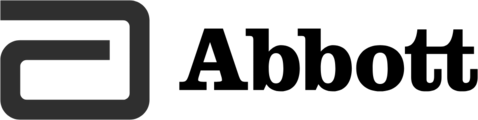
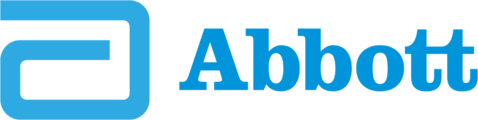
Update copy, imagery, and layout across site; expand team section
- Rework hero, stats, and CTA copy on the homepage (citations, stat
  corrections, wording fixes)
- Replace technology-page diagrams with clean crops sourced from the
  latest investor deck; reorder PCR/ELISA comparison bars
- Add Professor Yoon and John Perchorowicz as full team member cards
  with real headshots; trim advisory-team blurb accordingly
- Recolor all credential/affiliation logos with verified brand colors
  and add Calgene + Triage Masters; tighten section spacing around
  that band
- Contact page: add company field, fix aside icon, update copy
- Add CLAUDE.md documenting the site's structure, deploy path, and
  outstanding Formspree setup

diff --git a/team.html b/team.html
@@ -4,7 +4,7 @@
   <meta charset="UTF-8" />
   <meta name="viewport" content="width=device-width, initial-scale=1.0" />
   <title>Team — RapidBio Systems</title>
-  <meta name="description" content="RapidBio's team brings deep experience across medical and analytical devices, food science and entrepreneurship — backed by patented technology and an exclusive University of Arizona license." />
+  <meta name="description" content="RapidBio's team brings deep experience across medical and analytical devices, food science, data management and entrepreneurship — backed by patented technology and an exclusive University of Arizona license." />
   <link rel="icon" type="image/png" sizes="64x64" href="assets/favicon-64.png" />
   <link rel="apple-touch-icon" href="assets/apple-touch-icon.png" />
   <link rel="stylesheet" href="css/styles.css" />
@@ -39,14 +39,14 @@
       <div class="container">
         <div class="section-head narrow">
           <span class="eyebrow">Team</span>
-          <h2 class="mt-0">Deep experience across medical and analytical devices, food science, and entrepreneurship</h2>
+          <h2 class="mt-0">Deep experience across medical and analytical devices, food science, data management, and entrepreneurship</h2>
           <p class="lead">A leadership and advisory team that has built scientific products at scale, founded and exited companies, and exclusively licensed the underlying technology.</p>
         </div>
       </div>
     </section>
 
     <!-- ===== LEADERSHIP ===== -->
-    <section class="section">
+    <section class="section section--tight-bottom">
       <div class="container">
         <div class="team-grid">
           <div class="member">
@@ -67,34 +67,48 @@
             <div class="role">Board &amp; Investor</div>
             <p>Founder of Empire West and a serial entrepreneur across multiple ventures.</p>
           </div>
+          <div class="member">
+            <div class="member__photo"><img src="assets/team-yoon.png" alt="Portrait of Professor Yoon" width="500" height="500" /></div>
+            <h3>Professor Yoon, PhD</h3>
+            <div class="role">Inventor</div>
+            <p>Professor of Agricultural &amp; Biosystems Engineering, University of Arizona.</p>
+          </div>
+          <div class="member">
+            <div class="member__photo"><img src="assets/team-perchorowicz.png" alt="Portrait of John Perchorowicz" width="500" height="500" /></div>
+            <h3>John Perchorowicz, PhD</h3>
+            <div class="role">Technical Consultant &amp; Investor</div>
+            <p>Past President, Triage Masters; Managing Principal Scientist, Calgene.</p>
+          </div>
         </div>
 
         <div class="advisory">
           <h3>Advisory team</h3>
-          <p><b>Professor Yoon, PhD</b> — Inventor · <b>John Perchorowicz, PhD</b> — Technical Consultant &amp; Investor · <b>Greg Smith, MS</b> — Senior EE · <b>Tim Reckart, JD</b> — Corporate Attorney · <b>Quan Nguyen, PhD, JD</b> — Intellectual Property</p>
+          <p><b>Greg Smith, MS</b> — Senior EE · <b>Tim Reckart, JD</b> — Corporate Attorney · <b>Quan Nguyen, PhD, JD</b> — Intellectual Property</p>
         </div>
       </div>
     </section>
 
     <!-- ===== CREDENTIAL LOGOS ===== -->
-    <section class="section section--tint">
+    <section class="section section--tint section--tight">
       <div class="container">
         <div class="partners">
           <p class="partners__label">Experience &amp; affiliations across the team</p>
           <div class="partners__row">
             <img src="assets/partner-jnj.png" alt="Johnson &amp; Johnson" />
             <img src="assets/partner-biorad.png" alt="Bio-Rad" />
+            <img src="assets/partner-uarizona.png" alt="The University of Arizona" />
             <img src="assets/partner-abbott.png" alt="Abbott" />
             <img src="assets/partner-sunquest.png" alt="Sunquest" />
-            <img src="assets/partner-empirewest.png" alt="Empire West Construction" />
-            <img src="assets/partner-uarizona.png" alt="The University of Arizona" />
+            <img src="assets/partner-empirewest.png" alt="Empire West Companies" />
+            <img class="logo-compact" src="assets/partner-calgene.png" alt="Calgene" />
+            <img class="logo-compact" src="assets/partner-triagemasters.png" alt="Triage Masters" />
           </div>
         </div>
       </div>
     </section>
 
     <!-- ===== CREDIBILITY / CTA ===== -->
-    <section class="section">
+    <section class="section section--tight-top">
       <div class="container">
         <div class="grid-2" style="align-items:stretch; margin-bottom:44px">
           <div class="card">
@@ -102,20 +116,20 @@
               <svg width="24" height="24" viewBox="0 0 24 24" fill="none" stroke="currentColor" stroke-width="2" stroke-linecap="round" stroke-linejoin="round"><path d="M12 2l7 3v6c0 4.5-3 8-7 11-4-3-7-6.5-7-11V5z"/><path d="M9 12l2 2 4-4"/></svg>
             </div>
             <h3>Protected &amp; validated</h3>
-            <p>Two issued US patents and an exclusive license from the University of Arizona. Proof of principle and proof of technology complete, with E.&nbsp;coli detection demonstrated at ~10&nbsp;CFU/mL.</p>
+            <p>Two issued US patents and an exclusive license from the University of Arizona. Proof of principle and proof of technology complete with E.&nbsp;coli detection—demonstrated at 10&nbsp;CFU/mL.</p>
           </div>
           <div class="card">
             <div class="icon-badge" aria-hidden="true">
               <svg width="24" height="24" viewBox="0 0 24 24" fill="none" stroke="currentColor" stroke-width="2" stroke-linecap="round" stroke-linejoin="round"><path d="M20 7h-9M14 17H5"/><circle cx="7" cy="7" r="3"/><circle cx="17" cy="17" r="3"/></svg>
             </div>
             <h3>Backed &amp; recognized</h3>
-            <p>Prior investment from DesertTech, the University of Arizona and the Kauffman Foundation, with media coverage in the Wall Street Journal, Fast Company and FoodBytes.</p>
+            <p>Prior investment from DesertTech, Board of Directors, the University of Arizona and the Kauffman Foundation, with media coverage in the Wall Street Journal, Fast Company and FoodBytes.</p>
           </div>
         </div>
 
         <div class="cta-band">
           <h2>Understand the Market and RapidBio Systems' Plan</h2>
-          <p>Request the market overview deck for more details on the market and our approach and plan.</p>
+          <p>Request the market overview deck for more details on the market and our approach.</p>
           <a class="btn btn--onDark btn--lg" href="contact.html">Request the Market Overview Deck <span class="arrow" aria-hidden="true">→</span></a>
         </div>
       </div>
@@ -131,7 +145,7 @@
             <img src="assets/logo-mark.png" alt="" />
             <div class="footer__wordmark">RapidBio Systems, Inc.<span>Fast Pathogen Detection Made Easy™</span></div>
           </div>
-          <p class="footer__tag">Transforming food safety testing, one 10-minute test at a time.</p>
+          <p class="footer__tag">Transforming food safety testing one 10-minute test at a time.</p>
         </div>
         <div class="footer__col">
           <h4>Explore</h4>

diff --git a/index.html b/index.html
@@ -39,13 +39,13 @@
       <div class="container hero__grid">
         <div class="hero__copy">
           <span class="eyebrow">Fast Pathogen Detection Made Easy™</span>
-          <h1>10-minute bacterial pathogen detection for food safety</h1>
+          <h1>~10-minute bacterial pathogen detection for food safety fast screening testing</h1>
           <p class="hero__sub">A portable, handheld system that delivers PCR-like accuracy in about ten minutes — no lab, no amplification step, no specialized technician.</p>
           <div class="hero__actions">
             <a class="btn btn--primary btn--lg" href="contact.html">Request the Investor Deck <span class="arrow" aria-hidden="true">→</span></a>
             <a class="btn btn--ghost btn--lg" href="technology.html">See the technology</a>
           </div>
-          <p class="hero__trust">Detecting <b>E.&nbsp;coli</b>, <b>Salmonella</b>, <b>Listeria</b> &amp; <b>Campylobacter</b> — <b>~80%</b> of a <b>$12.7B</b> global market that's <b>growing 10% annually</b>.</p>
+          <p class="hero__trust">Detecting <b>E.&nbsp;coli</b>, <b>Salmonella</b>, <b>Listeria</b> &amp; <b>Campylobacter</b> — <b>~70%</b> of a <b>$12.7B</b> global market that's <b>growing 10% annually</b>.</p>
         </div>
         <div class="hero__media">
           <img src="assets/product-hero.png" alt="Two RapidBio handheld pathogen detection devices showing test results on screen" width="1000" />
@@ -59,14 +59,14 @@
         <div class="section-head">
           <span class="eyebrow">The problem</span>
           <h2>Slow testing costs the food industry $100M+ annually <span class="mdash">—</span> and puts consumers at risk</h2>
-          <p class="lead">Bacterial contamination sickens an estimated 600&nbsp;million people a year and drives costly recalls. Today's screening takes hours and confirmation takes days, so product sits in inventory or ships untested.</p>
+          <p class="lead">Bacterial contamination sickens an estimated 10&nbsp;million people in the US a year and drives costly recalls. Today's screening takes hours and confirmation takes days, so product sits in inventory or ships untested.</p>
         </div>
 
         <div class="stats">
           <div class="stat stat--gold">
-            <div class="stat__num">600M</div>
-            <div class="stat__label">People sickened annually</div>
-            <p class="stat__desc">E.&nbsp;coli, Salmonella, Listeria and Campylobacter cause illness worldwide and trigger recalls.</p>
+            <div class="stat__num">10M</div>
+            <div class="stat__label">People sickened annually in the US</div>
+            <p class="stat__desc">E.&nbsp;coli, Salmonella, Listeria and Campylobacter cause 1,000 deaths annually (CDC, 2025).</p>
           </div>
           <div class="stat stat--gold">
             <div class="stat__num">Hours &ndash; Days</div>
@@ -102,7 +102,7 @@
             <span class="spec-bar__icon" aria-hidden="true">
               <svg width="22" height="22" viewBox="0 0 24 24" fill="none" stroke="currentColor" stroke-width="2.2" stroke-linecap="round" stroke-linejoin="round"><circle cx="12" cy="12" r="9"/><path d="M12 7v5l3 2"/></svg>
             </span>
-            <span><b>~10 minutes to result</b><span class="d">Fast screening in minutes, not hours or days.</span></span>
+            <span><b>~10 minutes to result</b><span class="d"><strong>Fast screening</strong> in minutes, not hours or days.</span></span>
           </div>
           <div class="spec-bar__item">
             <span class="spec-bar__icon" aria-hidden="true">
@@ -155,7 +155,7 @@
         <div class="section-head">
           <span class="eyebrow">Beyond the device</span>
           <h2>Every test builds a real-time, food-safety data layer</h2>
-          <p class="lead" style="color:#aeb8b2">Each test generates structured, timestamped, geotagged data — creating a pathogen dataset that doesn't exist today and shifting food safety from reactive to predictive. The long-term moat is the data rather than the device.</p>
+          <p class="lead" style="color:#aeb8b2">Each test generates structured, timestamped, geotagged data — creating a pathogen dataset that doesn't exist today, which shifts food safety from reactive to predictive. The long-term moat is the data rather than the device.</p>
         </div>
         <div class="grid-3">
           <div class="card">
@@ -170,7 +170,7 @@
               <svg width="24" height="24" viewBox="0 0 24 24" fill="none" stroke="currentColor" stroke-width="2" stroke-linecap="round" stroke-linejoin="round"><path d="M3 3v18h18"/><path d="M7 15l4-4 3 3 5-6"/></svg>
             </div>
             <h3>Predictive modeling</h3>
-            <p>Correlating results with supplier, line, temperature and season enables preventive, not reactive, food safety.</p>
+            <p>Correlating results with supplier, line, temperature and season enables preventive not reactive food safety.</p>
           </div>
           <div class="card">
             <div class="icon-badge" aria-hidden="true">
@@ -188,7 +188,7 @@
       <div class="container">
         <div class="cta-band">
           <h2>Ready to learn more?</h2>
-          <p>We're raising capital to complete development, achieve AOAC certification, and bring the first rapid pathogen test to market. Request the Investor Deck or start a conversation.</p>
+          <p>We're raising capital to complete development, achieve AOAC certification and bring the first rapid pathogen test to market. Request the Investor Deck or start a conversation.</p>
           <a class="btn btn--onDark btn--lg" href="contact.html">Request the Investor Deck <span class="arrow" aria-hidden="true">→</span></a>
         </div>
       </div>
@@ -204,7 +204,7 @@
             <img src="assets/logo-mark.png" alt="" />
             <div class="footer__wordmark">RapidBio Systems, Inc.<span>Fast Pathogen Detection Made Easy™</span></div>
           </div>
-          <p class="footer__tag">Transforming food safety testing, one 10-minute test at a time.</p>
+          <p class="footer__tag">Transforming food safety testing one 10-minute test at a time.</p>
         </div>
         <div class="footer__col">
           <h4>Explore</h4>

diff --git a/technology.html b/technology.html
@@ -93,7 +93,7 @@
         <div class="section-head" style="max-width:760px">
           <span class="eyebrow">The science</span>
           <h2 class="mt-0">How Mie-scattering detection works</h2>
-          <p class="lead">Antibody-coated microspheres bind to target bacteria in a micro-fluidic cartridge split into control and test channels. A laser passes through the sample, and the pattern of scattered light reveals whether pathogens are present — read directly, with no amplification.</p>
+          <p class="lead">Antibody-coated microspheres bind to target bacteria in a micro-fluidic cartridge split into control and test channels. A laser passes through the sample and the pattern of scattered light reveals whether pathogens are present — read directly, with no amplification.</p>
         </div>
 
         <div class="diagram-panel">
@@ -102,7 +102,7 @@
         <p class="diagram-hint">Swipe to see the full diagram →</p>
 
         <div class="photo-panel photo-panel--center">
-          <img src="assets/cartridge-detail.jpg" alt="Close-up of the RapidBio micro-fluidic test cartridge, with the sample port at the center feeding dyed fluid into the control-side and test-side channels" width="1200" height="636" loading="lazy" />
+          <img src="assets/cartridge-detail.jpg" alt="Close-up of the RapidBio micro-fluidic test cartridge, with the sample port at the center feeding dyed fluid into the control-side and test-side channels" width="1400" height="401" loading="lazy" />
         </div>
 
         <div class="grid-3" style="margin-top:40px">
@@ -131,7 +131,7 @@
         <div class="section-head">
           <span class="eyebrow">Competitive edge</span>
           <h2>Faster and lower cost <span class="mdash">—</span> without the amplification bottleneck</h2>
-          <p class="lead">Every competing method requires a sample amplification step that adds hours or days. RapidBio doesn't, delivering a screening result in about ten minutes.</p>
+          <p class="lead">Every competing method requires a sample amplification step that adds hours or days. RapidBio Systems doesn't, delivering a screening result in about ten minutes.</p>
         </div>
 
         <div class="compare">
@@ -146,16 +146,16 @@
             <div class="compare__track"><span class="compare__bar compare__bar--slow" style="width:40%"></span></div>
           </div>
           <div class="compare__row">
+            <div class="compare__thumb"><img src="assets/m-pcr.jpg" alt="Technician operating a benchtop PCR analyzer in a lab" width="160" height="160" loading="lazy" /></div>
+            <div class="compare__label">PCR / rtPCR<small>Hours + amplification</small></div>
+            <div class="compare__track"><span class="compare__bar compare__bar--slow" style="width:45%"></span></div>
+          </div>
+          <div class="compare__row">
             <div class="compare__thumb compare__thumb--icon" aria-hidden="true">
               <svg width="30" height="30" viewBox="0 0 24 24" fill="none" stroke="currentColor" stroke-width="1.6"><rect x="2.5" y="4.5" width="19" height="15" rx="2"/><circle cx="7" cy="9" r="1.5"/><circle cx="12" cy="9" r="1.5"/><circle cx="17" cy="9" r="1.5"/><circle cx="7" cy="15" r="1.5"/><circle cx="12" cy="15" r="1.5"/><circle cx="17" cy="15" r="1.5"/></svg>
             </div>
             <div class="compare__label">ELISA<small>Hours + amplification</small></div>
             <div class="compare__track"><span class="compare__bar compare__bar--slow" style="width:52%"></span></div>
-          </div>
-          <div class="compare__row">
-            <div class="compare__thumb"><img src="assets/m-pcr.jpg" alt="Technician operating a benchtop PCR analyzer in a lab" width="160" height="160" loading="lazy" /></div>
-            <div class="compare__label">PCR / rtPCR<small>Hours + amplification</small></div>
-            <div class="compare__track"><span class="compare__bar compare__bar--slow" style="width:70%"></span></div>
           </div>
           <div class="compare__row">
             <div class="compare__thumb"><img src="assets/m-agar.jpg" alt="Bacterial colonies growing on an agar culture plate" width="160" height="160" loading="lazy" /></div>
@@ -192,7 +192,7 @@
             <img src="assets/logo-mark.png" alt="" />
             <div class="footer__wordmark">RapidBio Systems, Inc.<span>Fast Pathogen Detection Made Easy™</span></div>
           </div>
-          <p class="footer__tag">Transforming food safety testing, one 10-minute test at a time.</p>
+          <p class="footer__tag">Transforming food safety testing one 10-minute test at a time.</p>
         </div>
         <div class="footer__col">
           <h4>Explore</h4>

diff --git a/contact.html b/contact.html
@@ -39,7 +39,7 @@
         <div class="section-head narrow">
           <span class="eyebrow">Contact</span>
           <h2 class="mt-0">Request the deck or start a conversation</h2>
-          <p class="lead">Tell us a little about your interest and we'll follow up with the investor deck and next steps.</p>
+          <p class="lead">Tell us a little about your interest and we'll follow up with the investor deck or technology market overview and next steps.</p>
         </div>
       </div>
     </section>
@@ -60,6 +60,10 @@
             <div class="field">
               <label for="email">Email</label>
               <input type="email" id="email" name="email" autocomplete="email" required />
+            </div>
+            <div class="field">
+              <label for="company">Company</label>
+              <input type="text" id="company" name="company" autocomplete="organization" />
             </div>
             <div class="field">
               <label for="message">Message</label>
@@ -85,7 +89,7 @@
               </li>
               <li>
                 <span class="icon-badge" aria-hidden="true">
-                  <svg width="22" height="22" viewBox="0 0 24 24" fill="none" stroke="currentColor" stroke-width="2" stroke-linecap="round" stroke-linejoin="round"><circle cx="12" cy="12" r="9"/><path d="M12 7v5l3 2"/></svg>
+                  <svg width="22" height="22" viewBox="0 0 24 24" fill="none" stroke="currentColor" stroke-width="2" stroke-linecap="round" stroke-linejoin="round"><circle cx="12" cy="8" r="4"/><path d="M4 21c0-4 3.6-6 8-6s8 2 8 6"/></svg>
                 </span>
                 <span><b>John Erickson</b><span>President &amp; CEO, RapidBio Systems, Inc.</span></span>
               </li>
@@ -109,7 +113,7 @@
             <img src="assets/logo-mark.png" alt="" />
             <div class="footer__wordmark">RapidBio Systems, Inc.<span>Fast Pathogen Detection Made Easy™</span></div>
           </div>
-          <p class="footer__tag">Transforming food safety testing, one 10-minute test at a time.</p>
+          <p class="footer__tag">Transforming food safety testing one 10-minute test at a time.</p>
         </div>
         <div class="footer__col">
           <h4>Explore</h4>

diff --git a/css/styles.css b/css/styles.css
@@ -79,6 +79,9 @@ strong { color: var(--ink); font-weight: 650; }
 .container { width: 100%; max-width: var(--container); margin-inline: auto; padding-inline: 24px; }
 .section { padding: clamp(56px, 8vw, 104px) 0; }
 .section--tint { background: var(--paper-2); }
+.section--tight { padding: clamp(24px, 3vw, 36px) 0; }
+.section--tight-bottom { padding-bottom: clamp(24px, 3vw, 36px); }
+.section--tight-top { padding-top: clamp(24px, 3vw, 36px); }
 .section--mint { background: linear-gradient(180deg, #f2f9f2, var(--mint)); }
 .section--dark { background: var(--charcoal); color: #d7ded9; }
 .section--dark h2, .section--dark h3 { color: #fff; }
@@ -299,7 +302,7 @@ strong { color: var(--ink); font-weight: 650; }
 .compare__note b { color: var(--green-700); }
 
 /* ---------- team ---------- */
-.team-grid { display: grid; grid-template-columns: repeat(3, 1fr); gap: 26px; }
+.team-grid { display: grid; grid-template-columns: repeat(5, 1fr); gap: 26px; }
 .member { text-align: center; }
 .member__photo {
   width: 168px; height: 168px; margin: 0 auto 18px; border-radius: 50%;
@@ -319,8 +322,8 @@ strong { color: var(--ink); font-weight: 650; }
 .partners { margin-top: 8px; }
 .partners__label { text-align: center; font-size: .8rem; letter-spacing: .14em; text-transform: uppercase; color: var(--muted); margin-bottom: 26px; }
 .partners__row { display: flex; flex-wrap: wrap; align-items: center; justify-content: center; gap: clamp(28px, 5vw, 60px); }
-.partners__row img { height: 34px; width: auto; opacity: .55; filter: grayscale(1); transition: opacity .2s, filter .2s; }
-.partners__row img:hover { opacity: .9; filter: grayscale(0); }
+.partners__row img { height: 34px; width: auto; }
+.partners__row img.logo-compact { height: 62px; }
 
 /* ---------- CTA band ---------- */
 .cta-band { background: linear-gradient(120deg, var(--green-700), var(--green)); color: #fff; border-radius: var(--r-lg); padding: clamp(40px, 6vw, 64px); text-align: center; box-shadow: var(--shadow-lg); position: relative; overflow: hidden; }

diff --git a/CLAUDE.md b/CLAUDE.md
@@ -1,0 +1,58 @@
+# RapidBio Systems — marketing/investor site
+
+Static marketing site for RapidBio Systems, Inc. (handheld bacterial
+pathogen detection for food safety). No build step, no framework,
+no backend — plain HTML/CSS/JS deployed as-is.
+
+## Stack & structure
+
+- 4 pages: `index.html`, `technology.html`, `team.html`, `contact.html`
+- `css/styles.css` — single stylesheet, no preprocessor
+- `js/nav.js` — mobile nav toggle only
+- `assets/` — images/logos. `assets/*.pdf` is gitignored on purpose:
+  source slide exports with "Confidential" footers get kept locally
+  for extracting artwork but must never be committed, since the whole
+  repo is served publicly (see `.gitignore` comment).
+- `fonts/` — self-hosted Inter woff2
+- No `package.json`, no bundler, no test suite, no README.
+
+## Deployment
+
+Hosted on **GitHub Pages**, legacy build (no Actions workflow),
+serving directly from the `main` branch root. Live at
+**https://hweikel.github.io/rapidbio/**. `.nojekyll` is present so
+Pages skips Jekyll processing. Pushing to `main` deploys immediately
+— there is no staging/preview step.
+
+## Running locally
+
+No build needed. From the repo root:
+```
+python3 -m http.server 8000
+```
+then open `http://localhost:8000/index.html`.
+
+## Known outstanding work
+
+- **Contact form is not wired up yet.** `contact.html` posts to
+  Formspree (`action="https://formspree.io/f/FORMSPREE_ENDPOINT"`),
+  but `FORMSPREE_ENDPOINT` is a literal placeholder, not a real form
+  ID. The inline script in `contact.html` detects this
+  (`form.action.indexOf("FORMSPREE_ENDPOINT") === -1`) and shows an
+  error telling visitors to email John directly instead of POSTing.
+  To finish this: create a form at formspree.io, swap the placeholder
+  for the real endpoint (`https://formspree.io/f/xxxxxxxx`), and
+  verify a real submission arrives before removing this note.
+- No analytics/tracking is wired up anywhere on the site.
+- No custom domain (`CNAME`) is configured — site lives at the
+  `github.io` subpath, not `rapidbiosystems.com` or similar.
+
+## Conventions seen in the code
+
+- Every page repeats the same header/footer markup by hand (no
+  templating) — if you edit nav or footer, update all four HTML
+  files identically.
+- CTAs consistently point to `contact.html` ("Request the Investor
+  Deck").
+- Copy changes have historically been done as direct commits to
+  `main` (see `git log`) — no branch/PR workflow in use so far.
